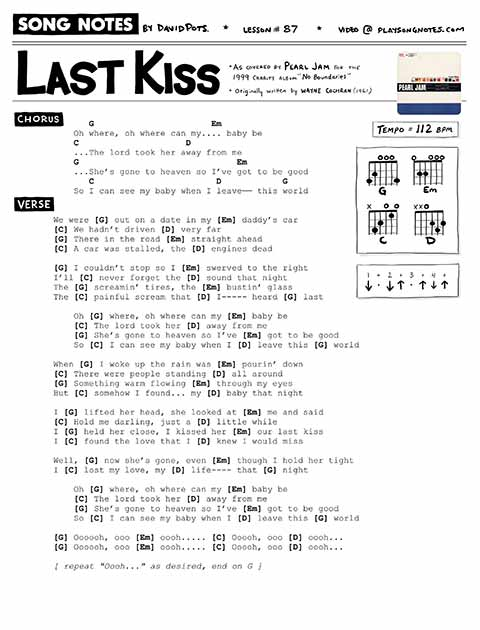
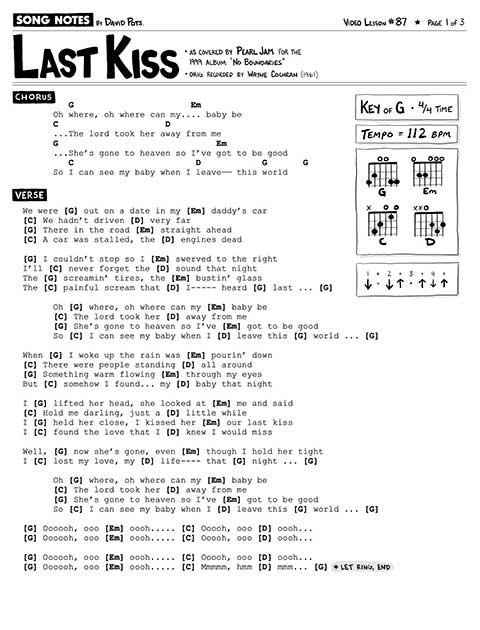
Adds last kiss mn url

Changed region(s): [[0.0, 0.0, 0.9688, 0.9048], [0.75, 0.7841, 0.7812, 0.8143], [0.75, 0.5127, 0.7812, 0.5429]]

diff --git a/_lessons/87 [Pearl Jam] Last Kiss.md b/_lessons/87 [Pearl Jam] Last Kiss.md
@@ -11,8 +11,9 @@ tags: [Full Song Lesson, 1990s, Rock, Key of G]
 slug: "87"
 redirect_from:
   - /songs/pearl-jam-last-kiss/
-pdf_version: copyright
+pdf_version: musicnotes
 pdf_numpages: 3
+musicnotes_url: https://www.musicnotes.com/l/dDHMm
 patreon_lesson_available: true
 patreon_lesson_url: https://www.patreon.com/posts/37729033
 ---
@@ -27,7 +28,7 @@ patreon_lesson_url: https://www.patreon.com/posts/37729033
 
 ## Editor's notes
 
-This lesson shows you an easy way to play "Last Kiss" as covered by Pearl Jam. I'll show you the chords needed, talk about transitioning between chords easily, and tackle the strumming pattern. This is a fun song to learn, as it only uses 4 chords repeating for the entire song: G-Em-C-D. Good luck!
+This lesson shows you an easy way to play "Last Kiss" as covered by Pearl Jam . I'll show you the chords needed, talk about transitioning between chords easily, and tackle the strumming pattern. This is a fun song to learn, as it only uses 4 chords repeating for the entire song: G-Em-C-D. Good luck!
 
 ## Chords needed
 
@@ -113,60 +114,3 @@ And finally, one you have mastered that, add up strums on the "2 +" and "3 +" co
     D     D  U     U  D  U
 
 The key is to keep your strumming hand (arm) moving up and down continuously, but only bringing the pick down on the strings when the strumming pattern demands it.
-
-## Lyrics w/ chords
-
-       G                     Em
-    Oh where, oh where can my baby be
-    C                     D
-    ...The lord took her away from me
-    G                               Em
-    ...She’s gone to heaven so I’ve got to be good
-       C                        D          G
-    So I can see my baby when I leave this world
-
-             [stay on G for 2 measures on "world"]
-
-        We were [G] out on a date in my [Em] daddy’s car
-        [C] We hadn’t driven [D] very far
-        [G] There in the road [Em] straight ahead
-        [C] A car was stalled, the [D] engines dead
-         [G] I couldn’t stop so I [Em] swerved to the right
-        I’ll [C] never forget the [D] sound that night
-        The [G] screamin’ tires, the [Em] bustin’ glass
-        The [C] painful scream that [D] I----- heard [G] last
-
-            [stay on G for 2 measures on "last"]
-
-    Oh [G] where, oh where can my [Em] baby be
-    [C] The lord took her [D] away from me
-    [G] She’s gone to heaven so I’ve [Em] got to be good
-    So [C] I can see my baby when I [D] leave this [G] world
-
-            [stay on G for 2 measures on "world"]
-
-        When [G] I woke up the rain was [Em] pourin’ down
-        [C] There were people standing [D] all around
-        [G] Something warm flowing [Em] through my eyes
-        But [C] somehow I found... my [D] baby that night
-     I [G] lifted her head, she looked at [Em] me and said
-        [C] Hold me darling, just a [D] little while
-        I [G] held her close, I kissed her [Em] our last kiss
-        I [C] found the love that I [D] knew I would miss
-
-        Well, [G] now she’s gone, even [Em] though I hold her tight
-        I [C] lost my love, my [D] life---- that [G] night
-
-    Oh [G] where, oh where can my [Em] baby be
-    [C] The lord took her [D] away from me
-    [G] She’s gone to heaven so I’ve [Em] got to be good
-    So [C] I can see my baby when I [D] leave this [G] world
-
-    [G] Oooooh, ooo [Em] oooh..... [C] Ooooh, ooo [D] oooh...
-    [G] Oooooh, ooo [Em] oooh..... [C] Ooooh, ooo [D] oooh...
-
-    [ repeat "Oooh..." as desired, end on G ]
-
-## Good luck!
-
-I hope this helps, and as always let me know if you have any questions.

diff --git a/backlog.md b/backlog.md
@@ -18,6 +18,7 @@ permalink: /backlog/
 
 Sheet music for the following songs are all available for purchase at Musicnotes.com. Each arrangement is officially licensed & legal, and also uses my latest sheet music formatting.
 
+    Apr 12 - Last Kiss
     Apr 11 - Badlands
     Apr 7  - A Million Dreams
     Apr 6  - Banded Clovis
@@ -79,7 +80,6 @@ Sheet music for the following songs are all available for purchase at Musicnotes
     All Apologies               XXX
     Highwayman •                XXXXXX
     LA Freeway                  XXXXX
-    Last Kiss                   XXX
     Let It Go                   XXX
     Light On •                  XXX
     Lookin' Out My Backdoor     XXXX
